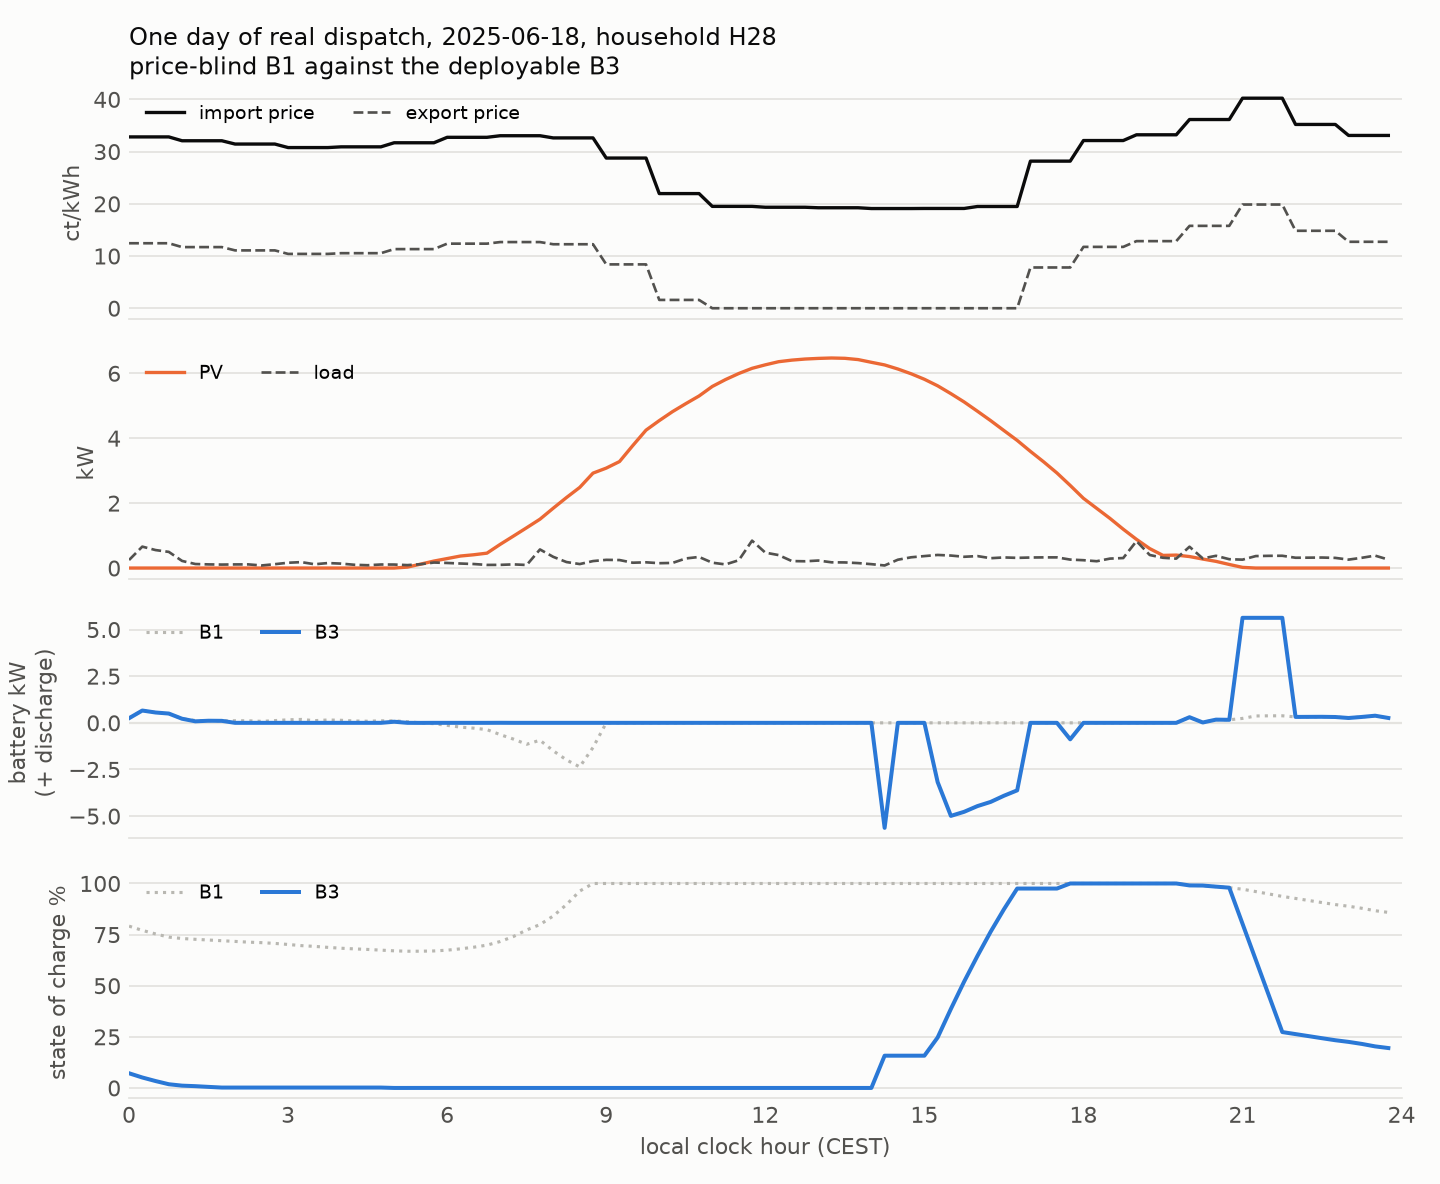
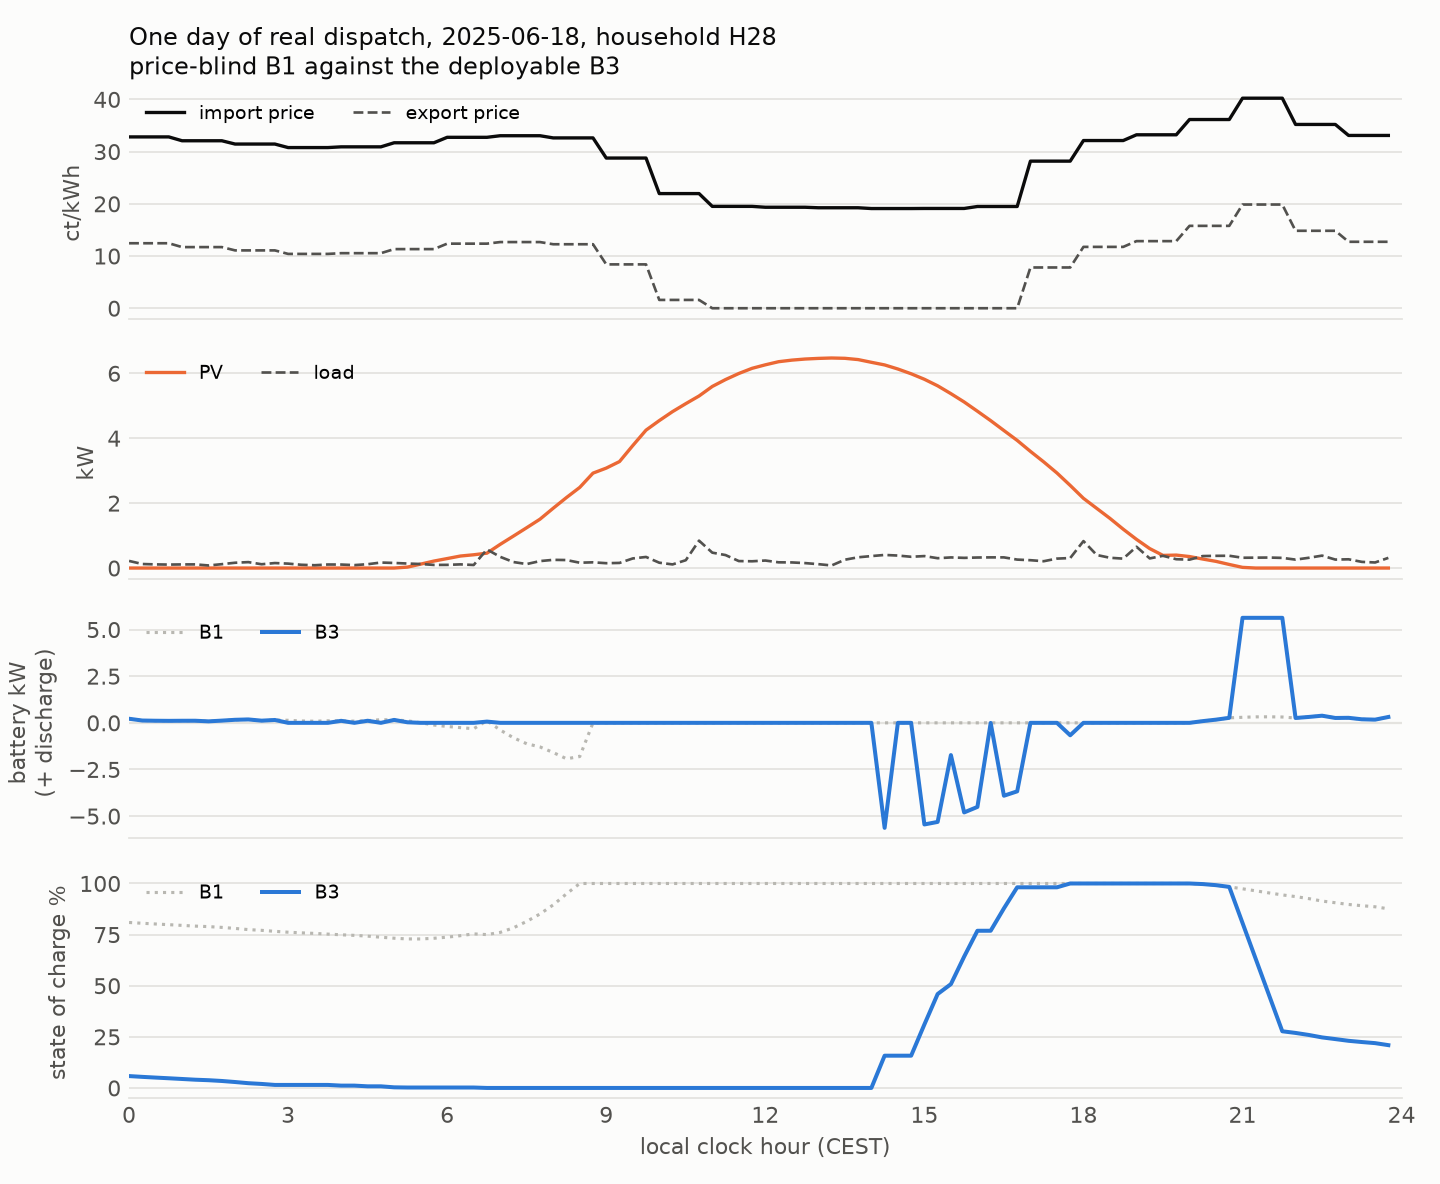
docs(p01): publish the post-fix HTW results that finished, mark the rest
Reruns with the HTW clock fix (c07847e) that completed before the run
was stopped: rolling evaluation H28 and H31, quarter-hour study, the
summer example day. With the old code the rebuilt dataset reproduced
every published number to four decimals, so each change is the fix.

README: deployable B3 capture 89.4 % (was 87.9 %), PV-only baseline
+52.89 EUR/a, payback 9.7 yr and ROCE 10.3 % unchanged; capture-ladder
decomposition, H31, quarter-hour, example day and load-forecast nRMSE
updated; capture_ladder, quarter_hour_value and example_day_dispatch
regenerated (the ladder without the RL bar until RL is rerun). The
household sweep, the sizing grid and RL are marked "before the clock
fix"; HANDOFF lists the steps to finish them.

diff --git a/projects/01-prosumer-pv-bess-mpc-rl/README.md b/projects/01-prosumer-pv-bess-mpc-rl/README.md
@@ -52,8 +52,8 @@ reproduces it; everything new uses correctly timed PV.
 | Prices | EPEX DE-LU day-ahead, Energy-Charts | 2024 matches the thesis exactly; hourly products until 2025-09-30, quarter-hour after |
 | PV | pvlib on Open-Meteo 15-min weather, loss calibrated to the thesis 2024 yield | daily correlation with the thesis PV 0.95; with measured German PV 0.77 (2024), 0.83 (2025), 0.82 (2026), same level as the company data (0.78) |
 | PV forecast | the same model on the weather forecast issued a day earlier (Open-Meteo previous runs) | nRMSE 0.30 to 0.38 in daytime, bias within 1.5 % |
-| Load | 74 measured households, HTW Berlin (Tjaden et al. 2015), scaled to 3221 kWh/a | one household shows PV behind the meter and is excluded ([screen](reports/htw_pv_screen.csv)) |
-| Load forecast | BDEW H0 standard profile with Bavarian holidays | nRMSE 1.03 at 15 min for a single household |
+| Load | 74 measured households, HTW Berlin (Tjaden et al. 2015), scaled to 3221 kWh/a and replayed on the 2024 to 2026 calendar on the households' own clock (legal local time) | one household shows PV behind the meter and is excluded ([screen](reports/htw_pv_screen.csv)) |
+| Load forecast | BDEW H0 standard profile with Bavarian holidays | nRMSE at 15 min, RMSE over mean load, 2024 to 2026: 0.82 for H28, 1.02 for H31 |
 
 ### Master benchmark comparison: 20.5-month out-of-sample evaluation
 
@@ -61,14 +61,17 @@ Full benchmark ladder evaluated on household H28 (3,221 kWh/a, 8 kWp PV, 9.37 kW
 
 | Rung | Controller | Net Cost (20.5m) | Net Cost (€/a) | Headroom % | Annual Cycles | Violations | Mean Solve | Payback | ROCE |
 |---|---|---:|---:|---:|---:|---:|---:|---:|---:|
-| **B0** | PV only (no battery baseline) | +104.67 € | +61.13 € | 0.0 % (ref) | 0.0 | 0 | - | - | - |
-| **B1** | Rule-based self-consumption | -321.46 € | -187.75 € | 0.0 % (B1 ref) | 174.0 | 0 | < 1 ms | 17.5 yr | 5.7 % |
-| **B2** | Perfect foresight MILP | -710.46 € | -414.94 € | 100.0 % | 298.2 | 0 | 4.2 s (yr) | 9.1 yr | 10.9 % |
-| **B3** | Deployable rolling MPC (realistic) | -663.45 € | -387.48 € | **87.9 %** | 287.8 | 0 | 5.9 ms | **9.7 yr** | **10.3 %** |
-| **RL** | Overhauled SAC (rescaled action, diff reward) | -426.38 € | -249.02 € | **27.0 %** | 275.4 | 0 | 1.2 ms | **14.0 yr** | **7.1 %** |
+| **B0** | PV only (no battery baseline) | +90.56 € | +52.89 € | 0.0 % (ref) | 0.0 | 0 | - | - | - |
+| **B1** | Rule-based self-consumption | -324.98 € | -189.80 € | 0.0 % (B1 ref) | 168.9 | 0 | < 1 ms | 17.9 yr | 5.6 % |
+| **B2** | Perfect foresight MILP | -716.68 € | -418.57 € | 100.0 % | 298.2 | 0 | 4.2 s (yr) | 9.2 yr | 10.8 % |
+| **B3** | Deployable rolling MPC (realistic) | -675.27 € | -394.38 € | **89.4 %** | 287.5 | 0 | 5.9 ms ¹ | **9.7 yr** | **10.3 %** |
+| **RL** | Overhauled SAC (rescaled action, diff reward), **before the clock fix** ² | -426.38 € | -249.02 € | **27.0 %** | 264.6 | 0 | 1.2 ms | **14.0 yr** | **7.1 %** |
 
-- **B3 Headroom Recovery:** The deployable rolling MPC captures **87.9 %** of the theoretical perfect-foresight ceiling (342 of 389 EUR headroom over B1) using only published prices, NWP irradiance forecasts, and standard load profiles. Zero constraint violations across all 59,996 quarter-hours.
-- **Economic Return:** Adding a battery under B3 dispatch turns an annual electricity expense of +61.13 EUR/a (PV only) into a net revenue of -387.48 EUR/a, an annual gain of **448.61 EUR/a**. Against the marginal CAPEX of 4,349 EUR (350 EUR/kWh storage plus 190 EUR/kW inverter) that is a **9.7-year simple payback** and **10.3 % return on capital**, against 17.5 years and 5.7 % for the price-blind rule-based operation. Perfect foresight would reach 9.1 years and 10.9 %, so the entire remaining control gap is worth about half a point of return.
+¹ Solve time measured on an idle machine before the clock fix; the rerun CSV shows 19.5 ms because eight jobs shared four cores. The fix does not touch the controller.
+² RL has not been rerun since the HTW clock fix (see the RL section); its row, payback and ROCE are pre-fix, against the pre-fix PV-only baseline of +61.13 EUR/a. Its annual cycles use the same annualisation as the other rows (264.6; 275.4 was printed before).
+
+- **B3 Headroom Recovery:** The deployable rolling MPC captures **89.4 %** of the theoretical perfect-foresight ceiling (350 of 392 EUR headroom over B1) using only published prices, NWP irradiance forecasts, and standard load profiles. Zero constraint violations across all 59,996 quarter-hours.
+- **Economic Return:** Adding a battery under B3 dispatch turns an annual electricity expense of +52.89 EUR/a (PV only) into a net revenue of -394.38 EUR/a, an annual gain of **447.27 EUR/a**. Against the marginal CAPEX of 4,349 EUR (350 EUR/kWh storage plus 190 EUR/kW inverter) that is a **9.7-year simple payback** and **10.3 % return on capital**, against 17.9 years and 5.6 % for the price-blind rule-based operation. Perfect foresight would reach 9.2 years and 10.8 %, so the entire remaining control gap is worth about half a point of return.
 
 ### Operational dispatch: 24-hour summer day comparison
 
@@ -78,26 +81,26 @@ The figure below isolates the physical dispatch of the price-blind rule-based he
 
 This is a real run of both controllers, warmed up over the three preceding days, on the
 project's own tariff. On this day the export price falls to **0 ct/kWh between 11:00 and
-16:00** (16 quarter-hours of negative spot price), while the evening peak reaches
+17:00** (16 quarter-hours of negative spot price), while the evening peak reaches
 **40 ct/kWh** around 21:00.
 
-- **Morning (06:00 to 11:00).** B1 charges on the first PV surplus and is full by 08:45. B3
-  leaves the battery almost empty: it entered the day at 7 % and stays there, because
-  surplus in the morning is still worth 12 ct/kWh on export while the evening peak is worth
-  far more to displace.
-- **Midday (11:00 to 16:00).** B1 is already full and exports 45.7 kWh over the day, of
+- **Morning (06:00 to 11:00).** B1 charges on the first PV surplus and is full by 08:30. B3
+  leaves the battery empty: it entered the day at 6 % and stays there, because surplus in
+  the morning is still worth 12 ct/kWh on export while the evening peak is worth far more
+  to displace.
+- **Midday (11:00 to 17:00).** B1 is already full and exports 46.0 kWh over the day, of
   which **33.0 kWh earn nothing at all**. B3 waits until the export price has collapsed to
   zero and only then charges, taking 8.9 kWh of otherwise worthless surplus and reaching
-  full charge at 17:45. Its zero-price export is 24.3 kWh, a third less than B1's.
+  full charge at 17:45. Its zero-price export is 24.3 kWh, about a quarter less than B1's.
 - **Evening (18:00 to 23:00).** B3 discharges 6.1 kWh into the expensive hours, at up to the
   full 5.63 kW inverter rating during the 40 ct peak. B1, having spent the day full and
   trickled into its own base load, contributes only 0.8 kWh there.
 - **Neither controller charges from the grid**, not even in the negative-price hours: the
   retail import price never drops below 19 ct/kWh, since taxes, levies and network charges
   dominate the spot component. Grid arbitrage does not pay for a German household.
-- **Result for the day:** -1.69 EUR for B3 against -0.68 EUR for B1 (negative is revenue), a
-  difference of about 1 EUR on a single summer day, earned purely by *when* the battery is
-  used rather than by using it more.
+- **Result for the day:** -1.76 EUR for B3 against -0.75 EUR for B1 (negative is revenue,
+  battery wear included), a difference of about 1 EUR on a single summer day, earned purely
+  by *when* the battery is used rather than by using it more.
 
 ### How much of the perfect-foresight gain does a deployable controller capture?
 
@@ -109,19 +112,20 @@ information from the test period is used.
 ![capture ladder](docs/figures/capture_ladder.png)
 
 For the most typical household (H28, closest to the median of all 73 on five load-shape
-features), the deployable B3 captures **87.9 %** of the gain that perfect foresight would
-achieve over the rule-based controller, 342 of 389 EUR over 20.5 months. The gap
+features), the deployable B3 captures **89.4 %** of the gain that perfect foresight would
+achieve over the rule-based controller, 350 of 392 EUR over 20.5 months. The gap
 decomposes cleanly: the price-limited horizon costs about 2 points, the household's load
-not following the standard profile about 8, and PV forecast error about 3. Zero
+not following the standard profile about 6, and PV forecast error about 3. Zero
 constraint violations in every run.
 
 ![household sweep](docs/figures/household_sweep.png)
 
-Across all 73 measured households the deployable B3 captures a **median 85.2 %** (middle
-half 83.5 to 87.3 %, range 75.0 to 91.4 %). That is the headline figure; H28 sits above the
-median. Households with high peaks capture less: H31, likely with an instantaneous electric
-water heater, reaches 97.9 % with perfect forecasts but 84.8 % with the standard-profile
-load forecast.
+**Before the clock fix, rerun pending:** across all 73 measured households the deployable
+B3 captured a median 85.2 % (middle half 83.5 to 87.3 %, range 75.0 to 91.4 %); the figure
+above is the same pre-fix run. The fix raised H28 by 1.5 points and H31 by 1.3, so the
+median is likely to rise by a similar amount once rerun. Households with high peaks capture
+less: H31, likely with an instantaneous electric water heater, reaches 97.9 % with perfect
+forecasts but 86.1 % with the standard-profile load forecast (both after the fix).
 
 ### What is the quarter-hour day-ahead market worth?
 
@@ -134,11 +138,13 @@ Reacting to quarter-hour prices is worth **26.3 EUR** in the first year for the 
 B3 (22.7 EUR with perfect foresight), about 11 % of the whole optimisation gain. It is
 earned mostly from March to October. The standard-profile household gives nearly the same
 values (24.9 and 22.3 EUR). An hourly model of the same household, as in the thesis,
-overstates the rule-based result by 12.0 EUR, because hourly averaging hides the
+overstates the rule-based result by 12.1 EUR, because hourly averaging hides the
 mismatch between PV and load inside the hour, and understates the optimised result by
-9.2 EUR.
+9.0 EUR.
 
 ### Reinforcement learning: formulation overhaul and diagnostic
+
+> **Before the HTW clock fix, not rerun.** Every RL number in this section was measured with the pre-fix replay (the household's summer load one hour late). Compare it with the pre-fix B3 capture of 87.9 %, not with the 89.4 % above. A rerun of all four formulations is pending.
 
 The preliminary RL benchmark (Soft Actor-Critic trained on 2024 data and tested over the 20.5-month out-of-sample period) captured a median of -5.9 % of the B1 to B2 gap (-7.1 % to -1.8 % across 3 seeds). A systematic failure mode audit revealed two architectural bottlenecks in standard home energy management RL formulations:
 
@@ -195,6 +201,8 @@ controller.
 Detailed per-seed statistics: [`reports/rl_eval_H28/`](reports/rl_eval_H28/).
 
 ### Economic bottom line and asset sizing
+
+> **Before the HTW clock fix, rerun pending.** The sizing grid below was computed with the pre-fix replay, so its 9.37 kWh / 5.63 kW row still shows the pre-fix B3 result (-387.5 EUR/a, 448.6 EUR/a savings, against the pre-fix PV-only baseline), not the rerun values in the benchmark table above.
 
 Twenty configurations, five battery capacities (5.0 to 15.0 kWh) against four inverter
 ratings (3.0, 4.6, 5.63, 7.5 kW), each operated over the same out-of-sample period as every
@@ -273,7 +281,7 @@ What it does not claim: it is not validated for any state or year (the only trut
 
 - The actual weather and the forecast come from the same provider's model family, so the PV forecast problem is slightly easier than against measurements (irradiance nRMSE 0.27 against its own analysis, 0.31 against independent ERA5).
 - The measured households are from 2010 (no heat pumps or electric vehicles) and from one unknown region; they are replayed on the 2024 to 2026 calendar by weekday and local clock.
-- **Fixed 2026-10-26 (c07847e), rerun in progress:** `htw.replay_on_calendar` read the HTW labels as MEZ, but they follow legal local time (see the aggregate load section), so every result above that uses an HTW household as truth replayed its summer behaviour one hour late against PV and prices. The replay is fixed and tested; the figures above are still the pre-fix ones and will be replaced once the rerun is committed: rolling evaluation H28/H31, household sweep, quarter-hour study, RL evaluation and ablation, sizing grid, the summer example day (2025-06-18) and its figure, and the load-forecast nRMSE in the data table.
+- **Fixed 2026-10-26 (c07847e):** `htw.replay_on_calendar` read the HTW labels as MEZ, but they follow legal local time (see the aggregate load section), so every result that uses an HTW household as truth replayed its summer behaviour one hour late against PV and prices. Rerun with the fix: the benchmark table (B0 to B3), the capture ladder and its figure, H31, the quarter-hour study and its figure, the summer example day and its figure, and the load-forecast nRMSE. With the old code the rebuilt dataset reproduced every published number to four decimals, so each change comes from the fix alone (B3 capture 87.9 % to 89.4 %). Still pre-fix and marked as such: the 73-household sweep and its figure, the sizing grid and the RL results.
 - The hourly counterfactual uses the hourly mean of the quarter-hour prices; bidding under hourly products would have differed, so the study measures the value of the finer signal, not a market counterfactual.
 - 2026 ends on 17 September.
 

diff --git a/HANDOFF.md b/HANDOFF.md
@@ -372,6 +372,14 @@ Read this section first when continuing on the personal laptop. Everything below
 - GitHub Pages workflow fails because the repo is private (pre-existing).
 
 
+### Status when the EIM-MUK session ended (2026-10-27, about 08:45)
+- The rerun was stopped on Murat's request after about ten hours: EIM-MUK has four physical cores, it slept for a while, and the household sweep alone would have needed several more hours.
+- Committed in the commit that adds this block (LOCAL on EIM-MUK, NOT pushed; GitHub stays at cb3b837 until Murat pushes): post-fix `reports/rolling_eval_htw_H28`, `rolling_eval_htw_H31`, `quarter_hour_study_H28`; regenerated `docs/figures/capture_ladder.png` (without the RL bar until RL is rerun), `quarter_hour_value.png`, `example_day_dispatch.png`; P01 README numbers for B0 to B3, the capture ladder, H31, the quarter-hour study, the example day and the load-forecast nRMSE, reviewed against the CSVs. Headline: deployable B3 89.4 % (pre-fix 87.9 %); PV-only B0 +52.89 EUR/a (pre-fix +61.13); B3 payback 9.7 yr, ROCE 10.3 %.
+- Still pre-fix and marked "before the clock fix" in the README: `household_sweep.csv` and its figure, `sizing_grid`, `rl_eval_H28` and the `rl_ablation_*` tables (the new net_cost/clip ablation never finished). 30 of 73 households were rerun before the stop: `projects/01-prosumer-pv-bess-mpc-rl/data/claude_session_2026-10-26/rerun_partial/reports/household_sweep_partial.csv` (median 87.4 % on those 30; not comparable with the pre-fix median 85.2 % on all 73).
+- The B3 solve time stays 5.9 ms with a footnote (the contended rerun CSV shows 19.5 ms); a rerun of H28 alone on an idle machine would replace it.
+- To finish, on any machine with c07847e or later: build the data (`prosumer build-data`, then H28/H31 via `dataset.with_measured_load` and `save_dataset`; on EIM-MUK they already exist in `data/processed/`); delete `reports/household_sweep.csv` (it appends) and run `prosumer household-sweep --workers <cores>`; `prosumer sizing --workers <cores>`; the four `rl-eval` runs listed above; then `python -c "from prosumer.reporting.figures import make_all; make_all()"` (restores the RL bar); update the README sections marked "before the clock fix", remove the markers, review the numbers with the definitions above, commit. Rough budget on four cores: sweep 73 x 6 CPU-min, sizing 20 x 7 CPU-min, SAC 1.5 to 3 h per seed. Run it on the shared tree only after the other session's uncommitted solver edits are committed or dropped, otherwise in a clean worktree.
+- EIM-MUK scratchpad and its worktree disappear with the session; run `git worktree prune` there afterwards. Everything worth keeping was copied to `projects/01-prosumer-pv-bess-mpc-rl/data/claude_session_2026-10-26/` (scripts including `readme_numbers.py`, logs, partial results) and to the session note `portfolio-p01-thesis-ext` on EIM-MUK.
+
 ## ▶ Next Concrete Actions (in order)
 
 1. **Projects 04 and 06 Ergonomics:** Review and refine documentation, docstrings, and CLI arguments for Project 04 (Renewable Energy Community) and Project 06 (Probabilistic Forecast-to-Bid).
@@ -456,3 +464,4 @@ reaches a figure, a README or the showcase unless it traces to a committed CSV.
 - 2026-10-26 · Claude Code · EIM-MUK: fresh clone into Vaults/MasterThesis. CI was red since 734fd17 (MaStR read at import, PuLP 4 in fresh installs). The MaStR fleet now loads lazily through `federal_states()`, fleet tests skip without data, PuLP pinned to >=3.2,<4. 207 passed / 34 skipped without data, 240 passed / 1 skipped with the USB data. Committed locally, not pushed.
 - 2026-10-26 · Claude Code · EIM-MUK: next action 1 done. Per-state aggregate household load fitted to the 73 HTW households (day class, state holidays, season, ERA5 temperature anomaly), coefficients and ten validation checks committed under reports/aggregate_load (34/34 pass/fail rows pass, both seeds); state_holidays for all 16 states; ERA5 daily fetch. Out of sample 15-min nRMSE 0.20 vs H0 0.24. Adversarial review added a seasonal weekend uplift (CV error 0.648 to 0.607 kWh/day), the holiday detection limit and a fleet_load fix. Found: HTW labels are legal local time, so htw.py replays summer one hour late in every HTW-truth result (flagged in README, fix pending Murat); the households show no regional holiday (not Saarland, unless only a minority there). Committed locally, not pushed.
 - 2026-10-27 · Claude Code · EIM-MUK: HTW clock fixed in c07847e (replay on the households' own clock; regression tests fail on the old code). Rebuilt dataset reproduced the published numbers exactly with the old code; with the fix H28 B3 capture is 89.43 % (was 87.91), H31 86.10 %. Remaining reruns (sweep, sizing, RL, figures) running on EIM-MUK. README battery configuration corrected to 9.37 kWh / 5.63 kW. Handoff for the personal laptop written above; pushed to GitHub on Murat's request.
+- 2026-10-27 · Claude Code · EIM-MUK: rerun stopped on request after ten hours. Committed locally (not pushed): post-fix H28, H31 and quarter-hour results, three regenerated figures, README numbers (B3 89.4 %, B0 +52.89 EUR/a); household sweep, sizing and RL marked pre-fix with the steps to finish them in the status block above.
